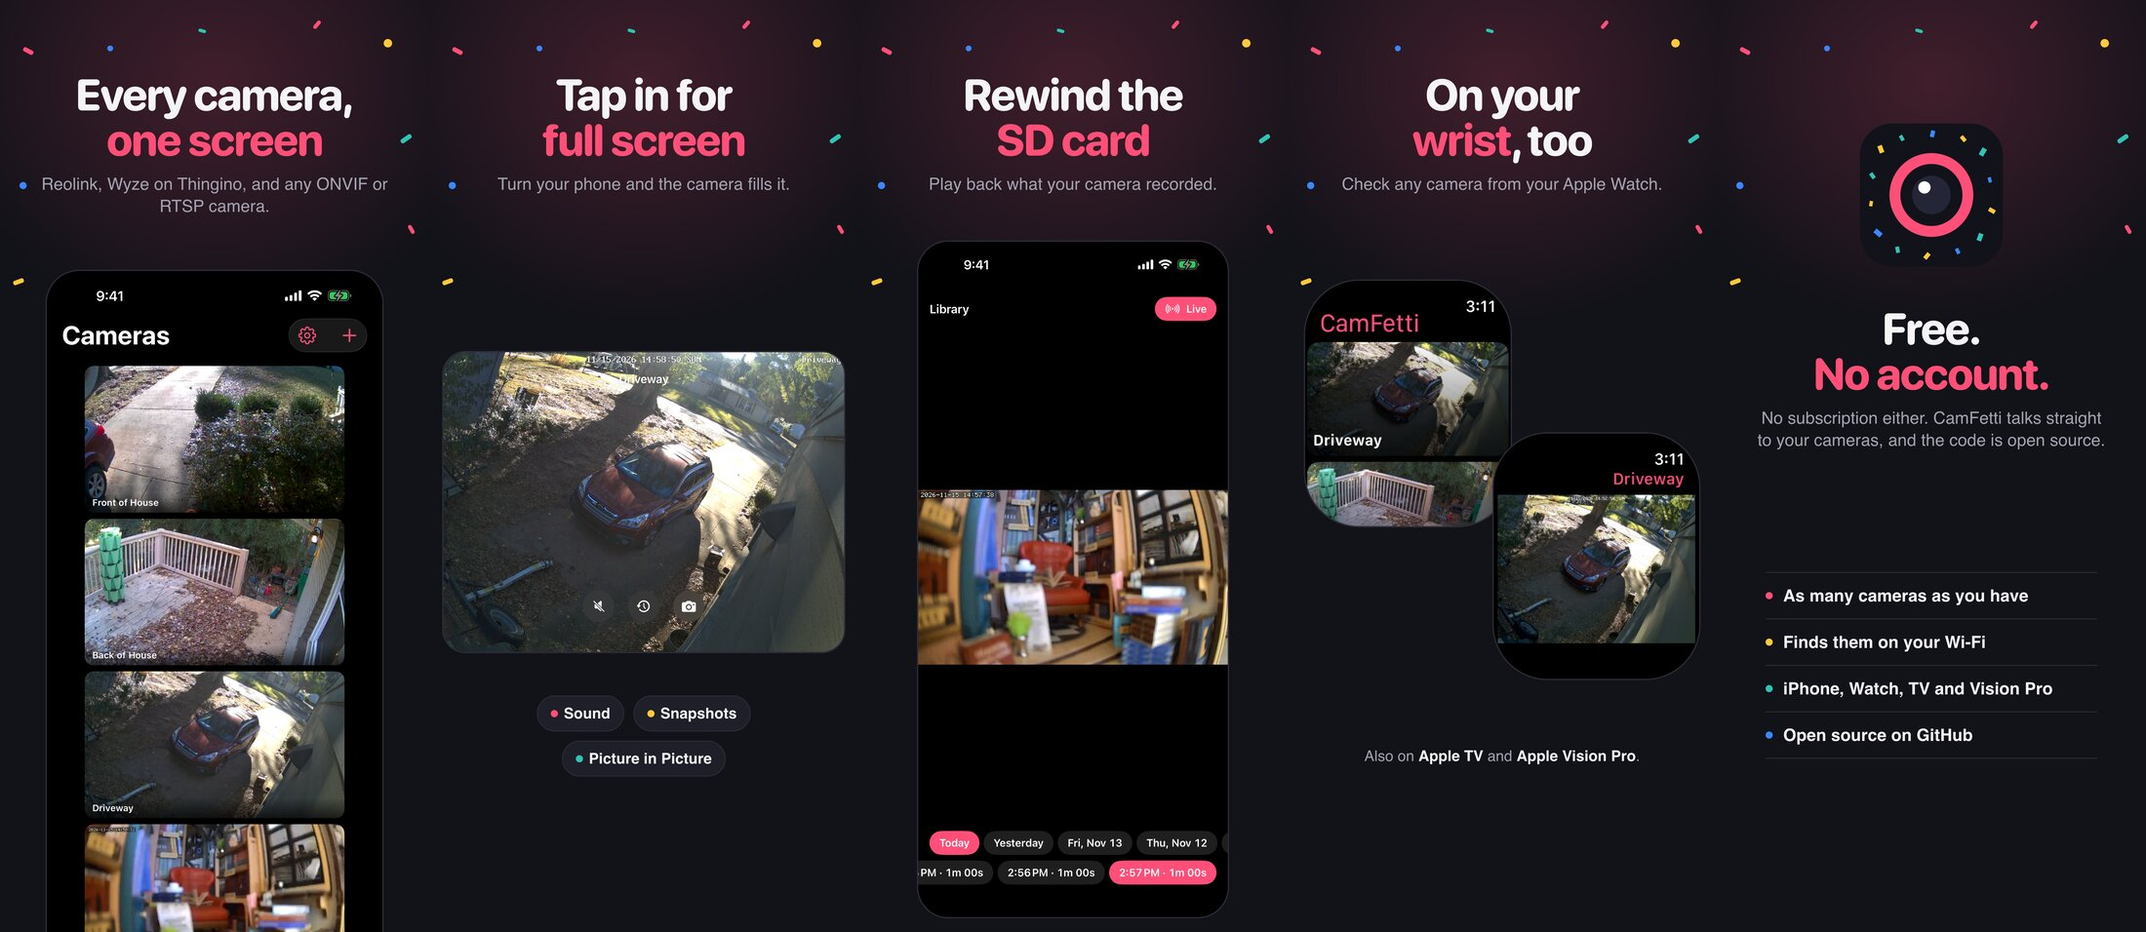
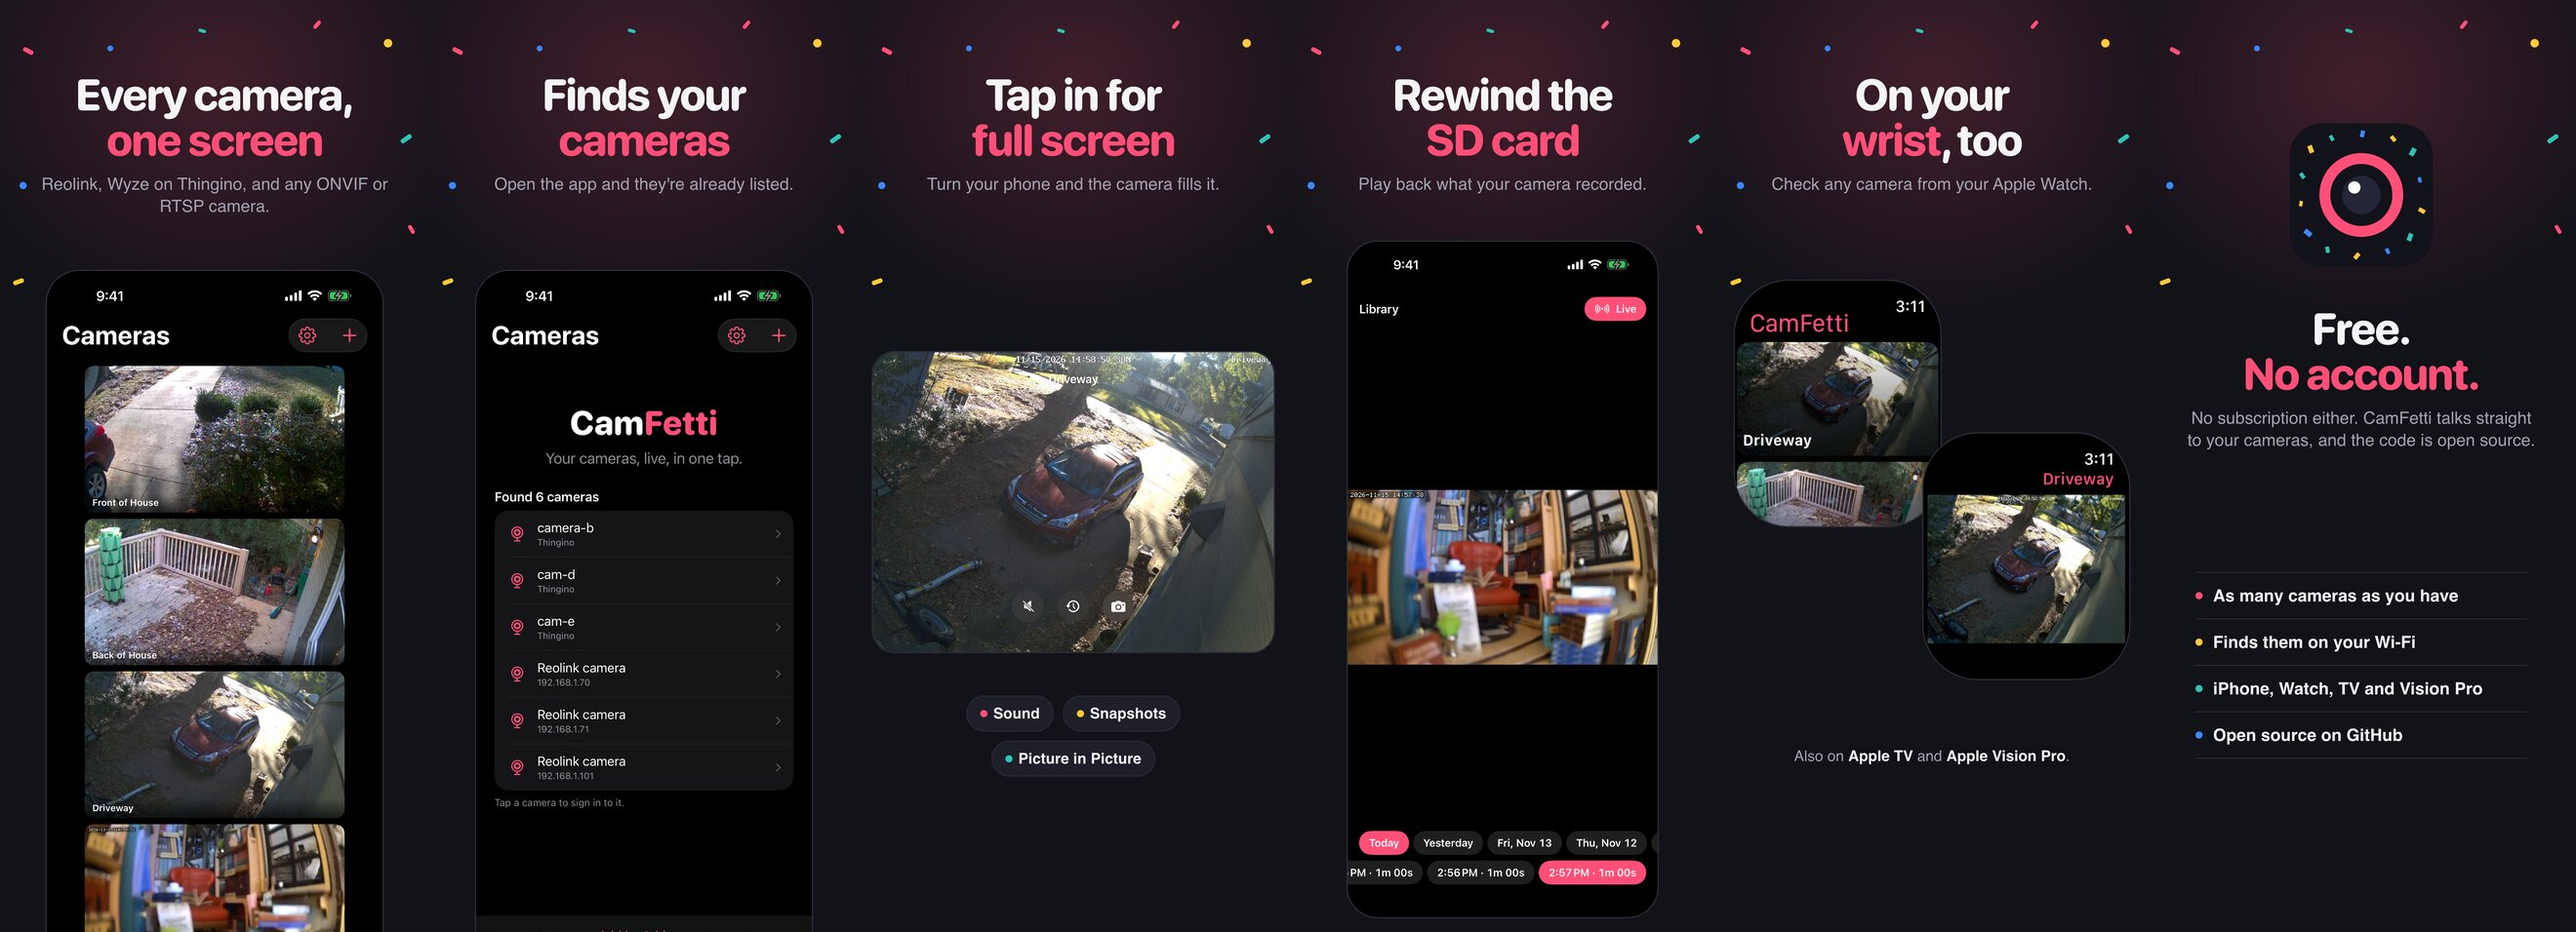
feat(store): Finds your cameras tile

diff --git a/scripts/store-tiles/tiles.html b/scripts/store-tiles/tiles.html
@@ -47,6 +47,11 @@ p { margin-top: 36px; font-size: 52px; line-height: 1.3; color: var(--muted); }
   <div class="screen portrait"><img src="shots/1-grid.png" alt=""></div>
 </section>
 
+<section class="tile" id="find">
+  <div class="copy"><h1>Finds your<br><em>cameras</em></h1><p>Open the app and they're already listed.</p></div>
+  <div class="screen portrait"><img src="shots/0-find.png" alt=""></div>
+</section>
+
 <section class="tile" id="full">
   <div class="copy"><h1>Tap in for<br><em>full screen</em></h1><p>Turn your phone and the camera fills it.</p></div>
   <div class="screen landscape" style="left:40px; width:1240px; height:930px; top:1080px; border-radius:72px"><img src="shots/3-landscape-video.png" alt=""></div>
